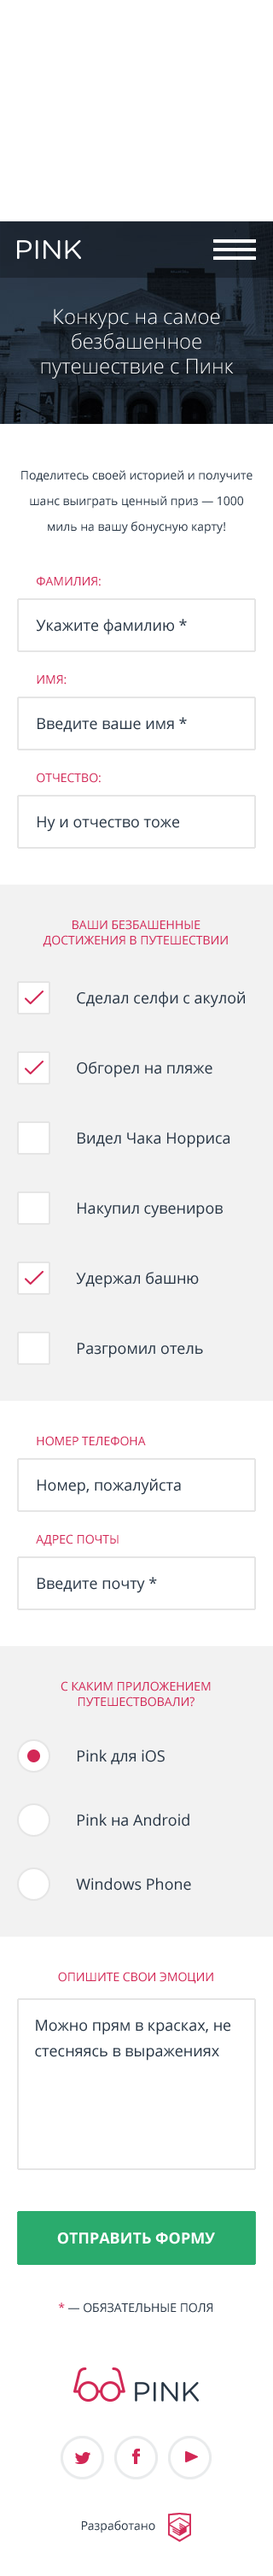
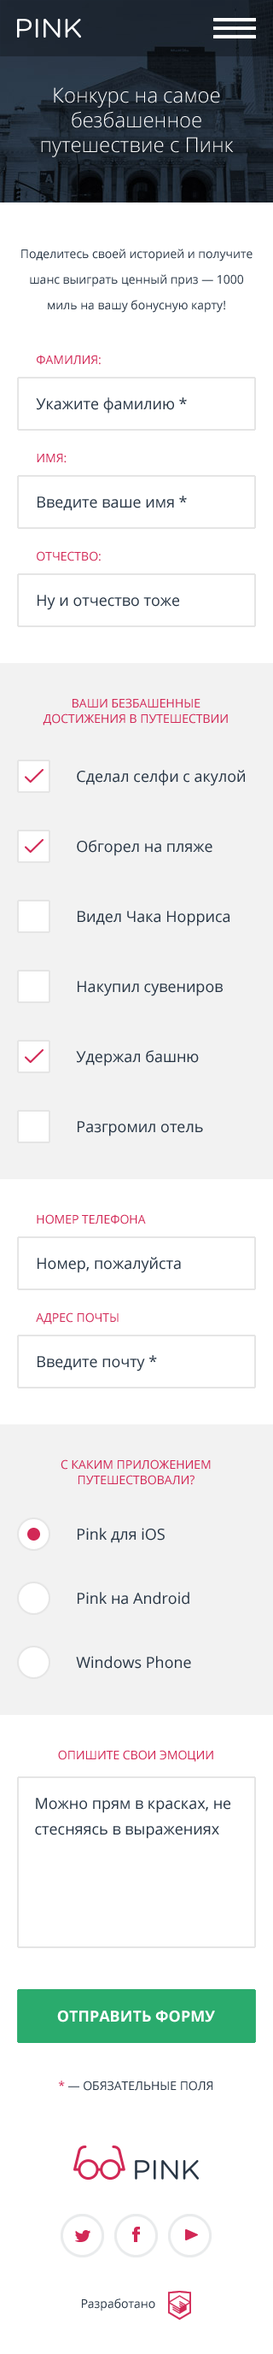
разметил страницу с формой

diff --git a/source/form.html b/source/form.html
@@ -176,8 +176,103 @@
       <h1 class="page-header__title page-title page-title--form-page">Конкурс на самое безбашенное путешествие с Пинк</h1>
     </header>
     <main class="page-main">
-      <section class="contest-form">
-
+      <section class="contest-form container">
+        <p class="contest-form__header">Поделитесь своей историей и получите шанс выиграть ценный приз — 1000 миль на вашу бонусную карту! <span class="contest-form__header-hidden">Пожалуйста, заполните форму ниже:</span></p>
+        <form class="contest-form__form" action="https://echo.htmlacademy.ru" method="get">
+          <div class="contest-form__username-wrapper">
+            <fieldset class="contest-form__username">
+              <ul class="contest-form__list">
+                <li class="contest-form__username-item">
+                  <label class="contest-form__label" for="surname">Фамилия:</label>
+                  <input class="contest-form__text-input" type="text" placeholder="Укажите фамилию *" name="surname" id="surname" required>
+                </li>
+                <li class="contest-form__username-item">
+                  <label class="contest-form__label" for="username">Имя:</label>
+                  <input class="contest-form__text-input" type="text" placeholder="Введите ваше имя *" name="username" id="username" required>
+                </li>
+                <li class="contest-form__username-item">
+                  <label class="contest-form__label" for="middle-name">Отчество:</label>
+                  <input class="contest-form__text-input" type="text" placeholder="Ну и отчество тоже" name="middle-name" id="middle-name">
+                </li>
+              </ul>
+            </fieldset>
+          </div>
+          <div class="contest-form__user-achieves-wrapper">
+            <fieldset class="contest-form__achieves">
+              <legend class="contest-form__legend">Ваши безбашенные достижения в путешествии</legend>
+              <ul class="contest-form__list">
+                <li class="contest-form__achieves-item">
+                  <input class="contest-form__checkbox visually-hidden" type="checkbox" id="selfie" name="achieves" value="selfie" checked>
+                  <label class="contest-form__label-checkbox" for="selfie">Сделал селфи с акулой</label>
+                </li>
+                <li class="contest-form__achieves-item">
+                  <input class="contest-form__checkbox visually-hidden" type="checkbox" id="burned" name="achieves" value="burned" checked>
+                  <label class="contest-form__label-checkbox" for="burned">Обгорел на пляже</label>
+                </li>
+                <li class="contest-form__achieves-item">
+                  <input class="contest-form__checkbox visually-hidden" type="checkbox" id="chuck" name="achieves" value="chuck">
+                  <label class="contest-form__label-checkbox" for="chuck">Видел Чака Норриса</label>
+                </li>
+                <li class="contest-form__achieves-item">
+                  <input class="contest-form__checkbox visually-hidden" type="checkbox" id="souvenir" name="achieves" value="souvenir">
+                  <label class="contest-form__label-checkbox" for="souvenir">Накупил сувениров</label>
+                </li>
+                <li class="contest-form__achieves-item">
+                  <input class="contest-form__checkbox visually-hidden" type="checkbox" id="tower" name="achieves" value="tower" checked>
+                  <label class="contest-form__label-checkbox" for="tower">Удержал башню</label>
+                </li>
+                <li class="contest-form__achieves-item">
+                  <input class="contest-form__checkbox visually-hidden" type="checkbox" id="hotel" name="achieves" value="hotel">
+                  <label class="contest-form__label-checkbox" for="hotel">Разгромил отель</label>
+                </li>
+              </ul>
+            </fieldset>
+          </div>
+          <div class="contest-form__contacts-wrapper">
+            <fieldset class="contest-form__contacts">
+              <legend class="contest-form__legend">Контактная информация</legend>
+              <ul class="contest-form__list">
+                <li class="contest-form__contacts-item">
+                  <label class="contest-form__label" for="tel">номер телефона</label>
+                  <input class="contest-form__text-input" type="tel" placeholder="Номер, пожалуйста" name="tel" id="tel">
+                </li>
+                <li class="contest-form__contacts-item">
+                  <label class="contest-form__label" for="email">Адрес почты</label>
+                  <input class="contest-form__text-input" type="email" placeholder="Введите почту *" name="email" id="email" required>
+              </ul>
+            </fieldset>
+          </div>
+          <div class="contest-form__user-app-wrapper">
+            <fieldset class="contest-form__user-app">
+              <legend class="contest-form__legend">С каким приложением путешествовали?</legend>
+              <ul class="contest-form__list">
+                <li class="contest-form__user-app-item">
+                  <input class="contest-form__radio visually-hidden" type="radio" name="user-app" id="ios" value="Pink ios" checked>
+                  <label class="contest-form__label-radio" for="ios">Pink для iOS</label>
+                </li>
+                <li class="contest-form__user-app-item">
+                  <input class="contest-form__radio visually-hidden" type="radio" name="user-app" id="android" value="Pink android">
+                  <label class="contest-form__label-radio" for="android">Pink на Android</label>
+                </li>
+                <li class="contest-form__user-app-item">
+                  <input class="contest-form__radio visually-hidden" type="radio" name="user-app" id="windows" value="Pink Windows">
+                  <label class="contest-form__label-radio" for="windows">Windows Phone</label>
+                </li>
+              </ul>
+            </fieldset>
+          </div>
+          <div class="contest-form__message-wrapper">
+            <fieldset class="contest-form__message">
+              <legend class="contest-form__legend">Опишите свои эмоции</legend>
+              <textarea class="contest-form__textarea" name="message" id="message" placeholder="Можно прям в красках, не стесняясь в выражениях" rows="5"></textarea>
+            </fieldset>
+          </div>
+          <div class="contest-form__submit-wrapper">
+            <button class="contest-form__button button button--square" type="submit">Отправить
+              форму</button>
+            <p class="contest-form__note"><span class="contest-form__star">*</span> — обязательные<span class="contest-form__note-hidden"> для заполнения</span> поля</p>
+          </div>
+        </form>
       </section>
     </main>
     <footer class="page-footer container">

diff --git a/source/sass/blocks/contest-form.scss b/source/sass/blocks/contest-form.scss
@@ -1,0 +1,32 @@
+.contest-form__header {
+  margin: 0 auto;
+  padding-top: 45px;
+  padding-bottom: 40px;
+  width: 280px;
+  line-height: 30px;
+  text-align: center;
+}
+
+.contest-form__header-hidden {
+  display: none;
+}
+
+@media (min-width: $tablet-width) {
+  .contest-form__header {
+    padding-top: 93px;
+    padding-bottom: 70px;
+    width: 490px;
+    font-size: 18px;
+  }
+
+  .contest-form__header-hidden {
+    display: inline;
+  }
+}
+
+@media (min-width: $desktop-width) {
+  .contest-form__header {
+    width: 760px;
+    padding-bottom: 55px;
+  }
+}

diff --git a/source/sass/style.scss b/source/sass/style.scss
@@ -19,6 +19,7 @@
 @import "blocks/contacts.scss";
 @import "blocks/map.scss";
 @import "blocks/page-title.scss";
+@import "blocks/contest-form.scss";
 @import "blocks/user-photo.scss";
 @import "blocks/user-post.scss";
 @import "blocks/photo-upload.scss";

diff --git a/source/sass/blocks/page-title.scss b/source/sass/blocks/page-title.scss
@@ -10,7 +10,8 @@
 }
 
 .page-title--form-page {
-  padding-bottom: 58px;
+  padding-top: 30px;
+  padding-bottom: 55px;
 }
 
 @media (min-width: $tablet-width) {
